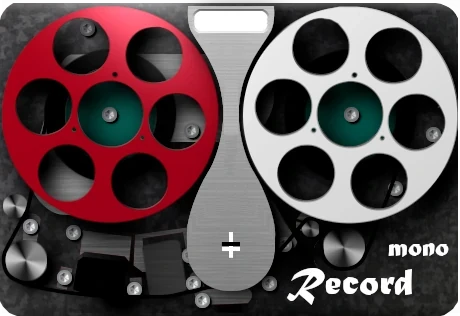
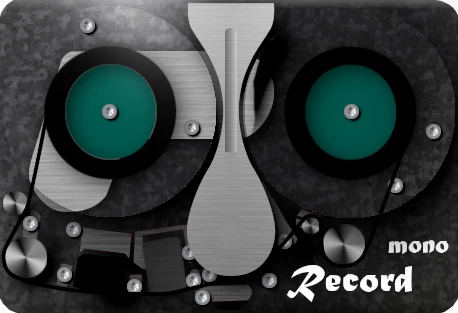
Update MOD UI

diff --git a/screcord/MOD/modgui/stylesheet-monorecord.css b/screcord/MOD/modgui/stylesheet-monorecord.css
@@ -35,6 +35,40 @@
     position: absolute;
 }
 
+@keyframes sprite {
+  to { background-position: -10488px }
+}
+
+.mod-head-model-001{{{cns}}} .tape {
+  height: 437px;
+  width: 437px;
+  position: relative;
+  display: inline-block;
+  background: url(/resources/heads/model-001/Mono_TurningTape_Red.webp{{{ns}}});
+  animation: sprite 1.5s steps(24) infinite;
+  animation-play-state: paused;
+  transform: translate(-31.5%, -30%) scale(0.38);
+}
+
+.mod-head-model-001{{{cns}}} .tape2 {
+  height: 437px;
+  width: 437px;
+  display: inline-block;
+  position: relative;
+  background: url(/resources/heads/model-001/TurningTape_White.webp{{{ns}}});
+  animation: sprite 1.5s steps(24) infinite;
+  animation-play-state: paused;
+  transform: translate(+10.5%, -131.5%) scale(0.38);
+}
+
+.mod-head-model-001{{{cns}}} .tape:hover {
+    animation-play-state: running;
+}
+
+.mod-head-model-001{{{cns}}} .tape2:hover {
+    animation-play-state: running;
+}
+
 /* CONTROLS */
 .mod-head-model-001{{{cns}}} .mod-control-group {
     bottom: 149px;
@@ -69,14 +103,15 @@
     height: 128px;
     width: 135px;
     z-index: 4;
+    cursor: pointer;
 }
 
 .mod-head-model-001{{{cns}}} .mod-switch-image.on {
-    background-position: -128px 0px;
+    background-position: -135px 0px !important;
 }
 
 .mod-head-model-001{{{cns}}} .mod-switch-image.off {
-    background-position: left 0px;
+    background-position: left 0px !important;
 }
 
 /* SWITCH ON/OFF - 0550 */
@@ -159,6 +194,7 @@
 }
 
 .mod-head-model-001{{{cns}}} .mod-enumerated .mod-enumerated-selected {
+    font-weight: bold;
     font-size: 19px;
     height: 38px;
     line-height: 2.5;
@@ -178,6 +214,7 @@
     border-radius: 4px;
     box-shadow:inset 1px 1px 10px #000;
     display: none;
+    font-weight: bold;
     font-size: 19px;
     height: auto;
     overflow: auto;

diff --git a/screcord/MOD/modgui/stylesheet-stereorecord.css b/screcord/MOD/modgui/stylesheet-stereorecord.css
@@ -42,6 +42,36 @@
     position: absolute;
 }
 
+@keyframes sprite {
+  to { background-position: -4608px }
+}
+
+@keyframes sprite2 {
+  to { background-position: -10488px }
+}
+
+.mod-head-model-001{{{cns}}} .tape {
+  height: 216px;
+  width: 192px;
+  position: relative;
+  display: inline-block;
+  background: url(/resources/heads/model-001/Stereo_TurningTape_Red.webp{{{ns}}});
+  animation: sprite 1.0s steps(24) infinite;
+  animation-play-state: paused;
+  transform: translate(-11%, -11.5%) scale(0.75);
+}
+
+.mod-head-model-001{{{cns}}} .tape2 {
+  height: 437px;
+  width: 437px;
+  display: inline-block;
+  position: relative;
+  background: url(/resources/heads/model-001/TurningTape_White.webp{{{ns}}});
+  animation: sprite2 1.5s steps(24) infinite;
+  animation-play-state: paused;
+  transform: translate(+10.5%, -81.5%) scale(0.38);
+}
+
 /* CONTROLS */
 .mod-head-model-001{{{cns}}} .mod-control-group {
     bottom: 149px;
@@ -79,11 +109,11 @@
 }
 
 .mod-head-model-001{{{cns}}} .mod-switch-image.on {
-    background-position: -128px 0px;
+    background-position: -135px 0px !important;
 }
 
 .mod-head-model-001{{{cns}}} .mod-switch-image.off {
-    background-position: left 0px;
+    background-position: left 0px !important;
 }
 
 /* SWITCH ON/OFF - 0550 */
@@ -181,6 +211,7 @@
 }
 
 .mod-head-model-001{{{cns}}} .mod-enumerated .mod-enumerated-selected {
+    font-weight: bold;
     font-size: 19px;
     height: 38px;
     line-height: 2.5;
@@ -200,8 +231,9 @@
     border-radius: 4px;
     box-shadow:inset 1px 1px 10px #000;
     display: none;
-    font-size: 19px;
-    height: auto;
+    font-weight: bold;
+    font-size: 12px;
+    height: 54px;
     overflow: auto;
     position: relative;
     width: 80px;

diff --git a/screcord/MOD/modgui/script-screcord.js b/screcord/MOD/modgui/script-screcord.js
@@ -23,7 +23,7 @@ function (event) {
             def = 115.0;
         }
 
-        return (Math.floor((def/115.0) * 63) * 10).toFixed(1);
+        return (Math.floor((def/115.0) * 10) * 63).toFixed(1);
     }
 
     function handle_event (symbol, value) {
@@ -39,6 +39,16 @@ function (event) {
             case 'RMETER':
                 position = log_meter (value);
                 event.icon.find ('[mod-role=RMETER]').css({backgroundPosition: `-${position}px 0px`});
+                break;
+            case 'REC':
+                if (value > 0) {
+                    event.icon.find ('[mod-role=TAPE]').css({'animation-play-state': 'running'});
+                    event.icon.find ('[mod-role=TAPE2]').css({'animation-play-state': 'running'});
+                } else {
+                    event.icon.find ('[mod-role=TAPE]').css({'animation-play-state': 'paused'});
+                    event.icon.find ('[mod-role=TAPE2]').css({'animation-play-state': 'paused'});
+                }
+                
                 break;
             default:
                 break;

diff --git a/screcord/MOD/modgui/icon-monorecord.html b/screcord/MOD/modgui/icon-monorecord.html
@@ -1,5 +1,7 @@
 <div class="mod-pedal mod-head-model-001{{{cns}}} mod-head-model-001-0550{{{cns}}}">
     <div mod-role="drag-handle" class="mod-drag-handle"></div>
+    <div class="tape" mod-role="TAPE"></div>
+    <div class="tape2" mod-role="TAPE2"></div>
     <div class="mod-control-group clearfix">
         {{#controls.0}}
         <div class="mod-enumerated clearfix" mod-role="input-control-port" mod-port-symbol="{{symbol}}" mod-widget="custom-select">
@@ -13,7 +15,7 @@
         {{/controls.0}}
         {{#controls.1}}
         <div class="mod-switch" title="{{comment}}">
-            <div class="mod-switch-image" mod-role="input-control-port" mod-port-symbol="{{symbol}}"></div>
+            <div id="js-toggle" class="mod-switch-image" mod-role="input-control-port" mod-port-symbol="{{symbol}}" mod-widget="switch"></div>
         </div>
         {{/controls.1}}
         <div class="mod-led" title="{{comment}}">

diff --git a/screcord/MOD/modgui/icon-stereorecord.html b/screcord/MOD/modgui/icon-stereorecord.html
@@ -1,5 +1,7 @@
 <div class="mod-pedal mod-head-model-001{{{cns}}} mod-head-model-001-0550{{{cns}}}">
     <div mod-role="drag-handle" class="mod-drag-handle"></div>
+    <div class="tape" mod-role="TAPE"></div>
+    <div class="tape2" mod-role="TAPE2"></div>
     <div class="mod-control-group clearfix">
         {{#controls.0}}
         <div class="mod-enumerated clearfix" mod-role="input-control-port" mod-port-symbol="{{symbol}}" mod-widget="custom-select">
@@ -13,7 +15,7 @@
         {{/controls.0}}
         {{#controls.1}}
         <div class="mod-switch" title="{{comment}}">
-            <div class="mod-switch-image" mod-role="input-control-port" mod-port-symbol="{{symbol}}"></div>
+            <div class="mod-switch-image" mod-role="input-control-port" mod-port-symbol="{{symbol}}" mod-widget="switch"></div>
         </div>
         {{/controls.1}}
         <div class="mod-led" title="{{comment}}">
